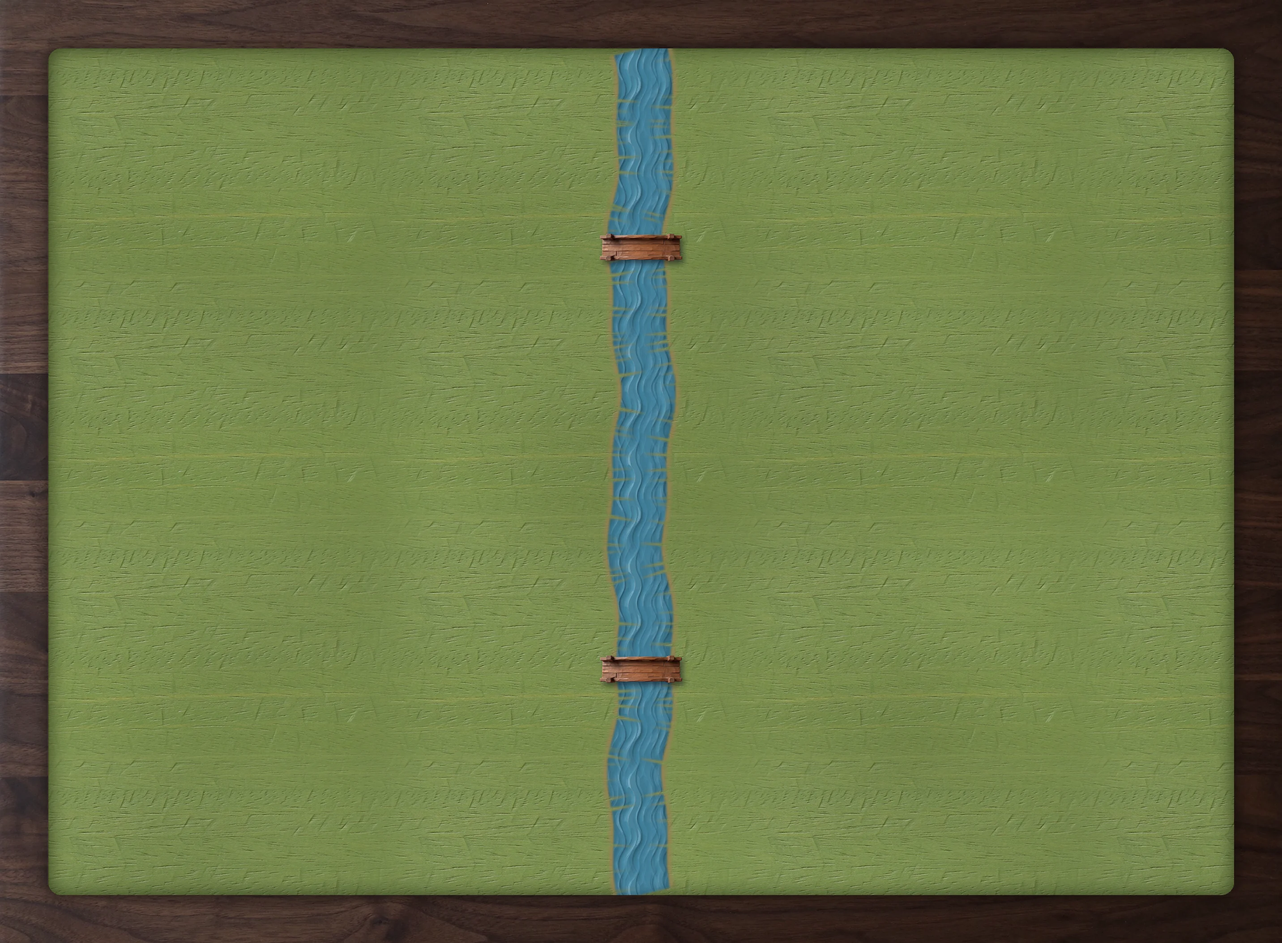
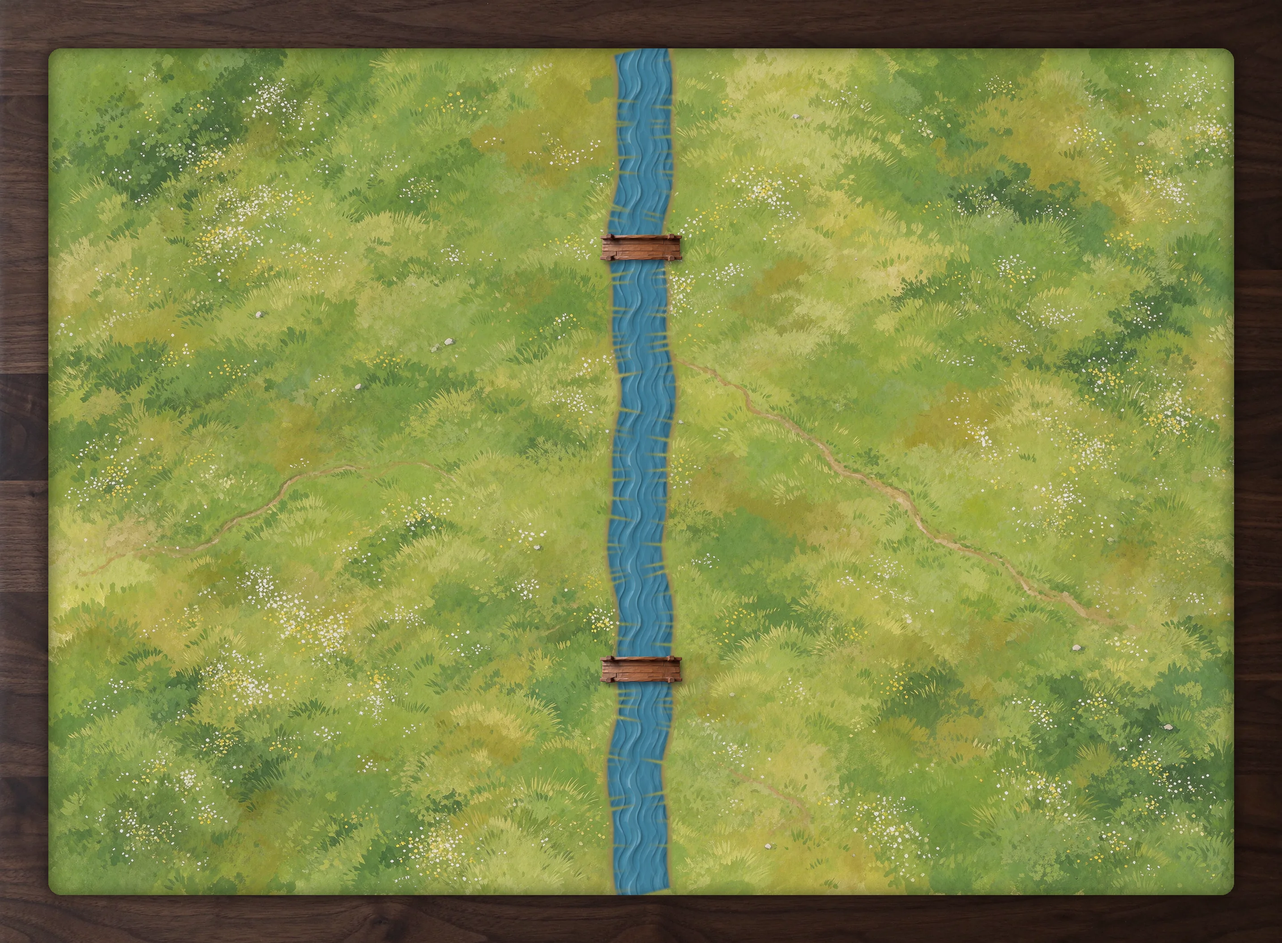
Camera: pieces no longer blink while turning; move lines show at once; thick table; painted meadow

diff --git a/src/ui/board.ts b/src/ui/board.ts
@@ -116,7 +116,7 @@ function lens(v: View): Lens {
 // One picture of the whole board (grass, river, bridges, forest shade, the table around it), made by _art/map_build.py.
 // It covers the flat map plus GROUND_M units all round and is laid under the hexes with the camera's own projection.
 const GROUND_M = 70;
-export const GROUND_URL = `${import.meta.env.BASE_URL}map/ground.webp?v=4`;
+export const GROUND_URL = `${import.meta.env.BASE_URL}map/ground.webp?v=5`;
 /** The picture's size in map units (its CSS size before the camera's transform). */
 export const GROUND_SIZE: Pt = [W + 2 * GROUND_M, H + 2 * GROUND_M];
 /** Carved trees, each drawn from 8 directions (tree-<kind>-<direction>.webp); picture size in pixels, trunk foot at bottom centre. */
@@ -136,6 +136,7 @@ export function loadGround(done: () => void) {
   const all = [GROUND_URL, ...TREE_KINDS.flatMap(([k]) => DIRS8.map((d) => TREE_URL(k, d))), ...PROPS.map((_, i) => PROP_URL(i))].map((src) => {
     const im = new Image();
     im.src = src;
+    KEEP.push(im);
     return im.decode ? im.decode() : new Promise<void>((ok, no) => ((im.onload = () => ok()), (im.onerror = no)));
   });
   Promise.all(all).then(() => ((groundReady = true), done())).catch(() => {});
@@ -240,7 +241,7 @@ function scenery(h: Hex, v: View, L: Lens): Standing[] {
   const k = L.size(px, py);
   const [sx, sy] = L.pt(px, py);
   const [w, hh] = [(pw / ph) * tall * k, tall * k];
-  return [{ depth: L.depth(px, py), svg: `<image href="${PROP_URL(pi)}" x="${(sx - w / 2).toFixed(1)}" y="${(sy - hh + 0.8 * k).toFixed(1)}" width="${w.toFixed(1)}" height="${hh.toFixed(1)}"/>` }];
+  return [{ depth: L.depth(px, py), svg: `<image decoding="sync" href="${PROP_URL(pi)}" x="${(sx - w / 2).toFixed(1)}" y="${(sy - hh + 0.8 * k).toFixed(1)}" width="${w.toFixed(1)}" height="${hh.toFixed(1)}"/>` }];
 }
 
 function trees(h: Hex, v: View, L: Lens): Standing[] {
@@ -261,7 +262,7 @@ function trees(h: Hex, v: View, L: Lens): Standing[] {
       const dir = L.tilt ? DIRS8[(seenFrom(v, L) + (seed % 8)) % 8] : 'front';
       const f = (L.tilt ? 0.27 : 0.12) * k; // the tallest tree stands about one and a half soldiers high
       const [w, hh] = [size[0] * f, size[1] * f];
-      return { depth: L.depth(x + dx, y + dy), svg: `${shadow}<image href="${TREE_URL(kind, dir)}" x="${(tx - w / 2).toFixed(1)}" y="${(ty - hh + 2 * k).toFixed(1)}" width="${w.toFixed(1)}" height="${hh.toFixed(1)}"/>` };
+      return { depth: L.depth(x + dx, y + dy), svg: `${shadow}<image decoding="sync" href="${TREE_URL(kind, dir)}" x="${(tx - w / 2).toFixed(1)}" y="${(ty - hh + 2 * k).toFixed(1)}" width="${w.toFixed(1)}" height="${hh.toFixed(1)}"/>` };
     }
     return { depth: L.depth(x + dx, y + dy), svg: shadow + (leafy ? oak(tx, ty, k, L.tilt) : pine(tx, ty, k, L.tilt)) };
   });
@@ -299,7 +300,7 @@ export interface Overlay {
   /** The side to move's pieces that can't do anything more this turn: drawn dimmed. */
   spent: Set<string>;
   /** What the other side did on its last turn: moves as arrows, kills as crosses. */
-  trail: { moves: { from: Hex; to: Hex }[]; kills: Hex[] };
+  trail: { moves: { from: Hex; to: Hex; owner?: Player; old?: boolean }[]; kills: Hex[] };
   /** Hexes the selected archer can shoot at (in range and in sight). */
   rings: Hex[];
   /** Threat view: hexes the enemy could hit on its next turn. */
@@ -403,7 +404,7 @@ function figure(type: UnitTypeId, owner: Player, hp: number, k: number, look: Lo
     const bar8 = hp > 0 && hp < full8 ? `<g transform="translate(0 ${(7 * k).toFixed(1)}) scale(${(0.7 * k).toFixed(3)}) translate(0 -16)">${healthBar(hp, full8)}</g>` : '';
     return `<ellipse cx="${(SHADOW[0] * 11 * k).toFixed(1)}" cy="${(k + SHADOW[1] * 5 * k).toFixed(1)}" rx="${(21 * k).toFixed(1)}" ry="${(6.5 * k).toFixed(1)}" fill="#1b2410" opacity=".32" class="cast"/><ellipse cx="0" cy="${k.toFixed(1)}" rx="${(13 * k).toFixed(1)}" ry="${(4 * k).toFixed(1)}" fill="#000" opacity=".35"/>
     <ellipse cx="0" cy="${k.toFixed(1)}" rx="${(17 * k).toFixed(1)}" ry="${(5.6 * k).toFixed(1)}" fill="none" stroke="${armyColor(owner)}" stroke-width="${(2 * k).toFixed(1)}" opacity=".9"/>
-    <image href="${SPRITE_URL(fac, type, look.dir)}" x="${(-w8 / 2).toFixed(1)}" y="${(-h8 + 4 * k).toFixed(1)}" width="${w8.toFixed(1)}" height="${h8.toFixed(1)}"/>${bar8}`;
+    <image decoding="sync" href="${SPRITE_URL(fac, type, look.dir)}" x="${(-w8 / 2).toFixed(1)}" y="${(-h8 + 4 * k).toFixed(1)}" width="${w8.toFixed(1)}" height="${h8.toFixed(1)}"/>${bar8}`;
   }
   const wanted: ViewId = AIMS_FORWARD[`${fac}/${type}`]?.includes(look.view) ? (look.view === 'front' ? 'fdiag' : set.bdiag ? 'bdiag' : 'side') : look.view;
   // A missing diagonal falls back to the straight view on the same side (front or back).
@@ -416,19 +417,23 @@ function figure(type: UnitTypeId, owner: Player, hp: number, k: number, look: Lo
   const flip = view !== 'front' && view !== 'back' && look.flip ? ' transform="scale(-1 1)"' : '';
   return `<ellipse cx="${(SHADOW[0] * 11 * k).toFixed(1)}" cy="${(k + SHADOW[1] * 5 * k).toFixed(1)}" rx="${(21 * k).toFixed(1)}" ry="${(6.5 * k).toFixed(1)}" fill="#1b2410" opacity=".32" class="cast"/><ellipse cx="0" cy="${k.toFixed(1)}" rx="${(13 * k).toFixed(1)}" ry="${(4 * k).toFixed(1)}" fill="#000" opacity=".35"/>
     <ellipse cx="0" cy="${k.toFixed(1)}" rx="${(17 * k).toFixed(1)}" ry="${(5.6 * k).toFixed(1)}" fill="none" stroke="${armyColor(owner)}" stroke-width="${(2 * k).toFixed(1)}" opacity=".9"/>
-    <image href="${SPRITE_URL(fac, type, view)}" x="${(-w / 2).toFixed(1)}" y="${(-h + 4 * k).toFixed(1)}" width="${w.toFixed(1)}" height="${h.toFixed(1)}"${flip}/>${bar}`;
+    <image decoding="sync" href="${SPRITE_URL(fac, type, view)}" x="${(-w / 2).toFixed(1)}" y="${(-h + 4 * k).toFixed(1)}" width="${w.toFixed(1)}" height="${h.toFixed(1)}"${flip}/>${bar}`;
 }
 
+/** Loaded pictures are held here for good: a picture nothing points at is dropped by the browser and
+ *  must be read again the next time the camera turns to it, which showed as pieces blinking. */
+const KEEP: HTMLImageElement[] = [];
 let preloaded = '';
 /** Starts loading both armies' figures, once per pair of armies, so pieces don't pop in. */
 export function preloadFigures() {
   const key = `${sides.red}/${sides.blue}`;
   if (key === preloaded || typeof Image === 'undefined') return;
   preloaded = key;
-  for (const av of ARROW_VIEWS) new Image().src = `${import.meta.env.BASE_URL}pieces/arrow-${av}.webp?v=${ART_VERSION}`;
+  const hold = (src: string) => { const im = new Image(); im.src = src; im.decode?.().catch(() => {}); KEEP.push(im); };
+  for (const av of ARROW_VIEWS) hold(`${import.meta.env.BASE_URL}pieces/arrow-${av}.webp?v=${ART_VERSION}`);
   for (const fac of [sides.red, sides.blue]) {
     for (const [type, set] of Object.entries(SPRITES[fac] ?? {})) {
-      for (const view of Object.keys(set)) { const im = new Image(); im.src = SPRITE_URL(fac, type, view); im.decode?.().catch(() => {}); }
+      for (const view of Object.keys(set)) hold(SPRITE_URL(fac, type, view));
     }
   }
 }
@@ -450,6 +455,44 @@ function piece(type: UnitTypeId, owner: Player, hp: number, L: Lens, [sx, sy]: P
 /** Height of a piece's middle above its hex, for badges, numbers and arrows. */
 const lift = (L: Lens, k: number) => (L.tilt ? 20 * k : 3 * k);
 
+/** The table is a thick slab of wood, not a sheet: its sides towards the camera, and the shadow it throws below. */
+const SLAB = 26;
+function slab(v: View, L: Lens): string {
+  const [fw, fh] = mapSize(v.portrait);
+  const m = GROUND_M - 0.6; // tucked just under the picture's edge so no gap shows
+  const c: Pt[] = [[-m, -m], [fw + m, -m], [fw + m, fh + m], [-m, fh + m]];
+  const sinA = Math.sin(tiltAngle(v));
+  const [cos, sin] = [Math.cos(v.cam.yaw), Math.sin(v.cam.yaw)];
+  const top = c.map(([x, y]) => L.pt(x, y));
+  const low = (d: number) => c.map(([x, y], i) => [top[i][0], top[i][1] + d * sinA * L.size(x, y)] as Pt);
+  const foot = low(SLAB);
+  const normals: Pt[] = [[0, -1], [1, 0], [0, 1], [-1, 0]];
+  const out: string[] = [];
+  // Shadow on whatever the table stands on: the slab's footprint, dropped a little further and spread.
+  const sh = low(SLAB * 2.1);
+  for (const [grow, op] of [[1.05, 0.2], [1.02, 0.25]] as const) {
+    const cx = sh.reduce((a, p) => a + p[0], 0) / 4, cy = sh.reduce((a, p) => a + p[1], 0) / 4;
+    out.push(`<polygon points="${sh.map(([x, y]) => fmt([cx + (x - cx) * grow, cy + (y - cy) * grow])).join(' ')}" fill="#000" opacity="${op}"/>`);
+  }
+  for (let i = 0; i < 4; i++) {
+    const [nx, ny] = normals[i];
+    const facing = nx * sin + ny * cos; // > 0: this side faces the camera
+    if (facing <= 0.01) continue;
+    const j = (i + 1) % 4;
+    const side = nx * cos - ny * sin; // which way it faces across the screen: lit from the left
+    const lum = 0.62 - 0.22 * side;
+    const col = (r: number, g: number, b: number) => `rgb(${[r, g, b].map((n) => Math.round(n * lum)).join(',')})`;
+    const lip = low(SLAB * 0.16), mid = low(SLAB * 0.62);
+    const quad = (a: Pt[], b: Pt[]) => `${fmt(a[i])} ${fmt(a[j])} ${fmt(b[j])} ${fmt(b[i])}`;
+    out.push(
+      `<polygon points="${quad(top, foot)}" fill="${col(92, 58, 36)}"/>`,
+      `<polygon points="${quad(mid, foot)}" fill="${col(62, 38, 24)}"/>`,
+      `<polygon points="${quad(top, lip)}" fill="${col(150, 104, 66)}"/>`,
+    );
+  }
+  return out.join('');
+}
+
 export function renderBoard(s: GameState, o: Overlay, v: View, fx: Effects = NO_EFFECTS): string {
   const L = lens(v);
   if (v.tilt) preloadFigures();
@@ -457,6 +500,7 @@ export function renderBoard(s: GameState, o: Overlay, v: View, fx: Effects = NO_
   const ground: string[] = [];
   const standing: Standing[] = [];
   const top: string[] = [];
+  if (groundReady && L.tilt) ground.push(slab(v, L));
 
   for (let r = 0; r < s.board.length; r++) {
     for (let c = 0; c < s.board[r].length; c++) {
@@ -506,8 +550,8 @@ export function renderBoard(s: GameState, o: Overlay, v: View, fx: Effects = NO_
     const ang = Math.atan2(by - ay, bx - ax);
     const head = (d: number) => `${(bx - 9 * Math.cos(ang + d)).toFixed(1)},${(by - 9 * Math.sin(ang + d)).toFixed(1)}`;
     ground.push(
-      `<line x1="${ax.toFixed(1)}" y1="${ay.toFixed(1)}" x2="${bx.toFixed(1)}" y2="${by.toFixed(1)}" class="trail"/>`,
-      `<polygon points="${bx.toFixed(1)},${by.toFixed(1)} ${head(0.45)} ${head(-0.45)}" class="trail-head"/>`,
+      `<g class="trail-g${m.old ? ' old' : ''}">${m.owner ? `<line x1="${ax.toFixed(1)}" y1="${ay.toFixed(1)}" x2="${bx.toFixed(1)}" y2="${by.toFixed(1)}" class="trail-side" stroke="${armyColor(m.owner)}"/>` : ''}<line x1="${ax.toFixed(1)}" y1="${ay.toFixed(1)}" x2="${bx.toFixed(1)}" y2="${by.toFixed(1)}" class="trail"/>`,
+      `<polygon points="${bx.toFixed(1)},${by.toFixed(1)} ${head(0.45)} ${head(-0.45)}" class="trail-head"/></g>`,
     );
   }
   for (const h of o.trail.kills) {
@@ -602,7 +646,7 @@ export function renderBoard(s: GameState, o: Overlay, v: View, fx: Effects = NO_
         const av = ARROW_VIEWS[Math.round(Math.atan2(Math.abs(rx), ry) / (Math.PI / 4))];
         const [aw, ah] = ARROWS[av].map((n) => n * (46 / ARROWS.side[0]));
         const amirror = rx < 0 && av !== 'toward' && av !== 'away' ? ' transform="scale(-1 1)"' : '';
-        top.push(`<g class="flight"><image href="${import.meta.env.BASE_URL}pieces/arrow-${av}.webp?v=${ART_VERSION}" x="${(-aw / 2).toFixed(1)}" y="${(-ah / 2).toFixed(1)}" width="${aw.toFixed(1)}" height="${ah.toFixed(1)}"${amirror}/>
+        top.push(`<g class="flight"><image decoding="sync" href="${import.meta.env.BASE_URL}pieces/arrow-${av}.webp?v=${ART_VERSION}" x="${(-aw / 2).toFixed(1)}" y="${(-ah / 2).toFixed(1)}" width="${aw.toFixed(1)}" height="${ah.toFixed(1)}"${amirror}/>
           <animateMotion dur="${d}s" fill="freeze" path="M${sx.toFixed(1)} ${y0.toFixed(1)}Q${mx.toFixed(1)} ${my.toFixed(1)} ${hx.toFixed(1)} ${ty.toFixed(1)}"/>
           <animate attributeName="opacity" values="1;1;0" keyTimes="0;.8;1" dur="${d + 0.25}s" fill="freeze"/></g>`);
       }

diff --git a/src/ui/main.ts b/src/ui/main.ts
@@ -398,13 +398,18 @@ function spentUnits(s: GameState): Set<string> {
 /** Moves and kills from the other side's most recent turn, read from the log. */
 function lastEnemyTurn(s: GameState) {
   const them = other(s.current);
-  const moves: { from: Hex; to: Hex }[] = [];
+  const moves: { from: Hex; to: Hex; owner: Player; old: boolean }[] = [];
   const kills: Hex[] = [];
   let i = s.log.length - 1;
-  while (i >= 0 && s.log[i].player === s.current) i--; // skip what this side has done so far
+  // This turn's own moves show at once, so it is clear what has just moved...
+  for (; i >= 0 && s.log[i].player === s.current; i--) {
+    const e = s.log[i];
+    if (e.kind === 'move') moves.push({ from: e.from, to: e.to, owner: e.player, old: false });
+  }
+  // ...and the other side's last turn stays, fainter, until this turn ends.
   for (; i >= 0 && s.log[i].player === them; i--) {
     const e = s.log[i];
-    if (e.kind === 'move') moves.push({ from: e.from, to: e.to });
+    if (e.kind === 'move') moves.push({ from: e.from, to: e.to, owner: e.player, old: true });
     if ((e.kind === 'attack' || e.kind === 'shoot') && e.killed) kills.push(e.at);
   }
   return { moves, kills };

diff --git a/src/ui/style.css b/src/ui/style.css
@@ -131,6 +131,8 @@ body {
 .board .spent { opacity: .75; }
 .board .trail { stroke: #fff6c8; stroke-width: 3; stroke-dasharray: 7 6; stroke-linecap: round; opacity: .7; }
 .board .trail-head { fill: #fff6c8; opacity: .8; }
+.board .trail-side { stroke-width: 7; stroke-linecap: round; opacity: .6; }
+.board .trail-g.old { opacity: .5; }
 .board .trail-kill { font: 700 20px 'PT Sans', sans-serif; fill: #ff6b5b; stroke: #3a0d08; stroke-width: 3px; paint-order: stroke; text-anchor: middle; opacity: .85; }
 .board .coord { font: 7px 'PT Sans', sans-serif; fill: #2b4220; opacity: .4; text-anchor: middle; }
 .board .cost { font: 700 12px 'PT Sans', sans-serif; fill: #fffbe0; stroke: #2b4220; stroke-width: 2.5px; paint-order: stroke; text-anchor: middle; }
